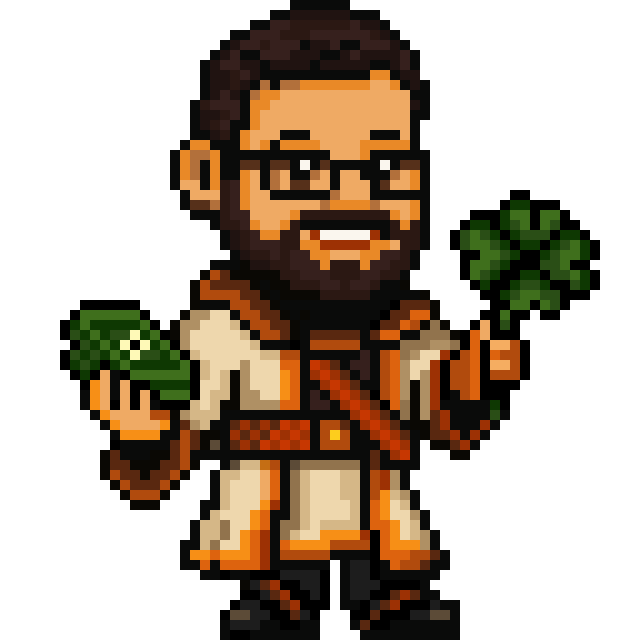
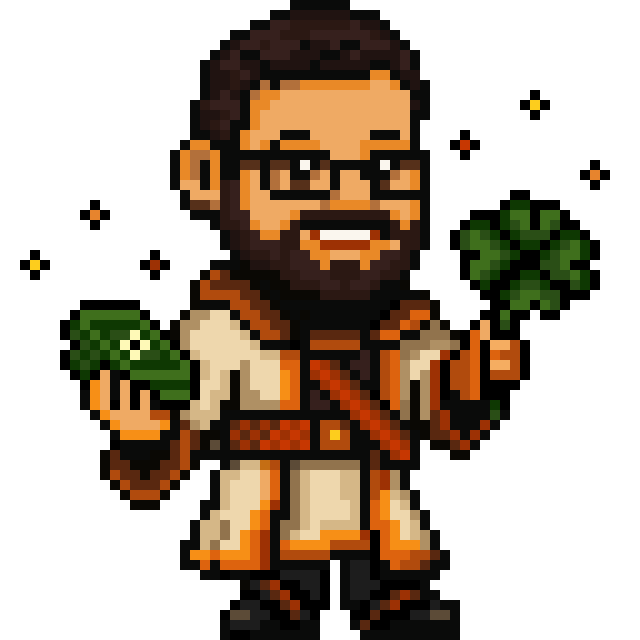
Feat/add last speaker (#26)
* chore(speakers): remove unused book preview code

- Remove speakers-book-preview page
- Remove SpeakerBookPage component
- Remove SpeakersBookPreview component

* feat(speakers): add Diego Mariño information and photo

- Add Diego Mariño's bio, role and company to i18n files (ES/GL)
- Add Diego Mariño's real photo (webp format)
- Update speaker data with social links (X and LinkedIn)
- Set isRevealed to true to make speaker visible
- Use #### placeholder for talk title and description

* fix(fireflies): resolve hydration mismatch error

- Replace useMemo with useEffect to generate fireflies only on client
- Use useState to store firefly particles
- Prevent SSR/client mismatch by generating random values after mount
- Fixes React hydration warning in SponsorsSection

* fix: resolve hydration errors in multiple components

- Fix FireParticles to generate particles only on client
- Fix ThroneRoomGallery to generate rotations only on client
- Replace useMemo with useEffect + useState pattern
- Add fallback value for rotations array access
- Prevents SSR/client mismatch in FAQSection, SocialSection, TeamSection and SpeakersSection

* style: remove trailing whitespace in FireParticles

* chore: remove unused sponsor background images

diff --git a/src/components/Speakers/speakers-data-i18n.ts b/src/components/Speakers/speakers-data-i18n.ts
@@ -15,6 +15,7 @@ import PilarRealImage from "@img/speakers/Pilar-real.JPG";
 import CristinaImage from "@img/speakers/Cristina-x64.png";
 import CristinaRealImage from "@img/speakers/Cristina-real.jpeg";
 import DiegoImage from "@img/speakers/Diego-x64.png";
+import DiegoRealImage from "@img/speakers/Diego-real.webp";
 import NachoImage from "@img/speakers/Nacho-x64.png";
 import NachoRealImage from "@img/speakers/Nacho-real.png";
 import NereaImage from "@img/speakers/Nerea-x64.png";
@@ -279,16 +280,24 @@ export function getSpeakersData(locale: Locale): Speaker[] {
       ],
     },
     {
-      id: "speaker-5",
+      id: "diego-marino",
       name: "Diego Mariño",
       talkTitle: speakersData["speaker-5"].talkTitle,
       talkDescription: speakersData["speaker-5"].talkDescription,
       tag: "Negocio",
       role: speakersData["speaker-5"].role,
+      company: speakersData["speaker-5"].company,
       summary: speakersData["speaker-5"].summary,
-      image: { src: DiegoImage.src, alt: "Retrato de Diego Rodríguez" },
-      socials: [],
-      isRevealed: false,
+      image: { src: DiegoImage.src, alt: "Retrato de Diego Mariño" },
+      imageReal: {
+        src: DiegoRealImage.src,
+        alt: "Fotografía de Diego Mariño",
+      },
+      socials: [
+        { label: "X", url: "https://x.com/diegomarino" },
+        { label: "LinkedIn", url: "https://www.linkedin.com/in/diegomarino" },
+      ],
+      isRevealed: true,
       flipImage: true,
     },
     {

diff --git a/src/components/Speakers/ThroneRoomGallery.tsx b/src/components/Speakers/ThroneRoomGallery.tsx
@@ -13,13 +13,17 @@ const ThroneRoomGallery: React.FC<ThroneRoomGalleryProps> = ({ lang }) => {
   const speakers = getSpeakersData(lang as "es" | "gl");
   const [selectedSpeaker, setSelectedSpeaker] = useState<Speaker | null>(null);
   const [isModalOpen, setIsModalOpen] = useState(false);
+  const [rotations, setRotations] = useState<number[]>([]);
   const galleryRef = useRef<HTMLDivElement>(null);
 
-  // Generar rotaciones aleatorias: 40% sin rotación, 60% con rotación leve (entre -2 y 2 grados)
-  const rotations = speakers.map(() => {
-    const shouldRotate = Math.random() > 0.4;
-    return shouldRotate ? Math.random() * 4 - 2 : 0;
-  });
+  // Generar rotaciones aleatorias solo en el cliente
+  useEffect(() => {
+    const newRotations = speakers.map(() => {
+      const shouldRotate = Math.random() > 0.4;
+      return shouldRotate ? Math.random() * 4 - 2 : 0;
+    });
+    setRotations(newRotations);
+  }, [speakers.length]);
 
   useEffect(() => {
     if (!galleryRef.current) return;
@@ -52,7 +56,7 @@ const ThroneRoomGallery: React.FC<ThroneRoomGalleryProps> = ({ lang }) => {
           <PortraitFrame
             key={speaker.id}
             speaker={speaker}
-            rotation={rotations[index]}
+            rotation={rotations[index] || 0}
             onClick={() => handleOpenModal(speaker)}
           />
         ))}

diff --git a/src/components/Others/FireflyParticles.tsx b/src/components/Others/FireflyParticles.tsx
@@ -1,4 +1,4 @@
-import React, { useMemo } from "react";
+import React, { useState, useEffect } from "react";
 import "@styles/fireflies.css";
 
 type FireflyParticlesProps = {
@@ -6,8 +6,10 @@ type FireflyParticlesProps = {
 };
 
 const FireflyParticles = React.memo(({ count = 50 }: FireflyParticlesProps) => {
-  const fireflies = useMemo(() => {
-    return Array.from({ length: count }).map((_, i) => {
+  const [fireflies, setFireflies] = useState<JSX.Element[]>([]);
+
+  useEffect(() => {
+    const newFireflies = Array.from({ length: count }).map((_, i) => {
       const size = `${Math.random() * 2 + 1}px`;
       const colors = ["#FFD700", "#FFA500", "#90EE90", "#ADFF2F"];
       const color = colors[Math.floor(Math.random() * colors.length)];
@@ -32,6 +34,8 @@ const FireflyParticles = React.memo(({ count = 50 }: FireflyParticlesProps) => {
 
       return <div key={i} className="firefly" style={style} />;
     });
+
+    setFireflies(newFireflies);
   }, [count]);
 
   return <div className="firefly-container">{fireflies}</div>;

diff --git a/src/components/Others/FireParticles.tsx b/src/components/Others/FireParticles.tsx
@@ -1,4 +1,4 @@
-import React, { useMemo } from "react";
+import React, { useState, useEffect } from "react";
 import "@styles/particles.css";
 
 type FireParticlesProps = {
@@ -6,8 +6,10 @@ type FireParticlesProps = {
 };
 
 const FireParticles = React.memo(({ count = 50 }: FireParticlesProps) => {
-  const particles = useMemo(() => {
-    return Array.from({ length: count }).map((_, i) => {
+  const [particles, setParticles] = useState<JSX.Element[]>([]);
+
+  useEffect(() => {
+    const newParticles = Array.from({ length: count }).map((_, i) => {
       const size = `${Math.random() * 5 + 2}px`;
       const colors = ["var(--accent)", "var(--color-5)"];
       const color = colors[Math.floor(Math.random() * colors.length)];
@@ -23,6 +25,8 @@ const FireParticles = React.memo(({ count = 50 }: FireParticlesProps) => {
 
       return <div key={i} className="particle" style={style} />;
     });
+
+    setParticles(newParticles);
   }, [count]);
 
   return <div className="particle-container">{particles}</div>;
